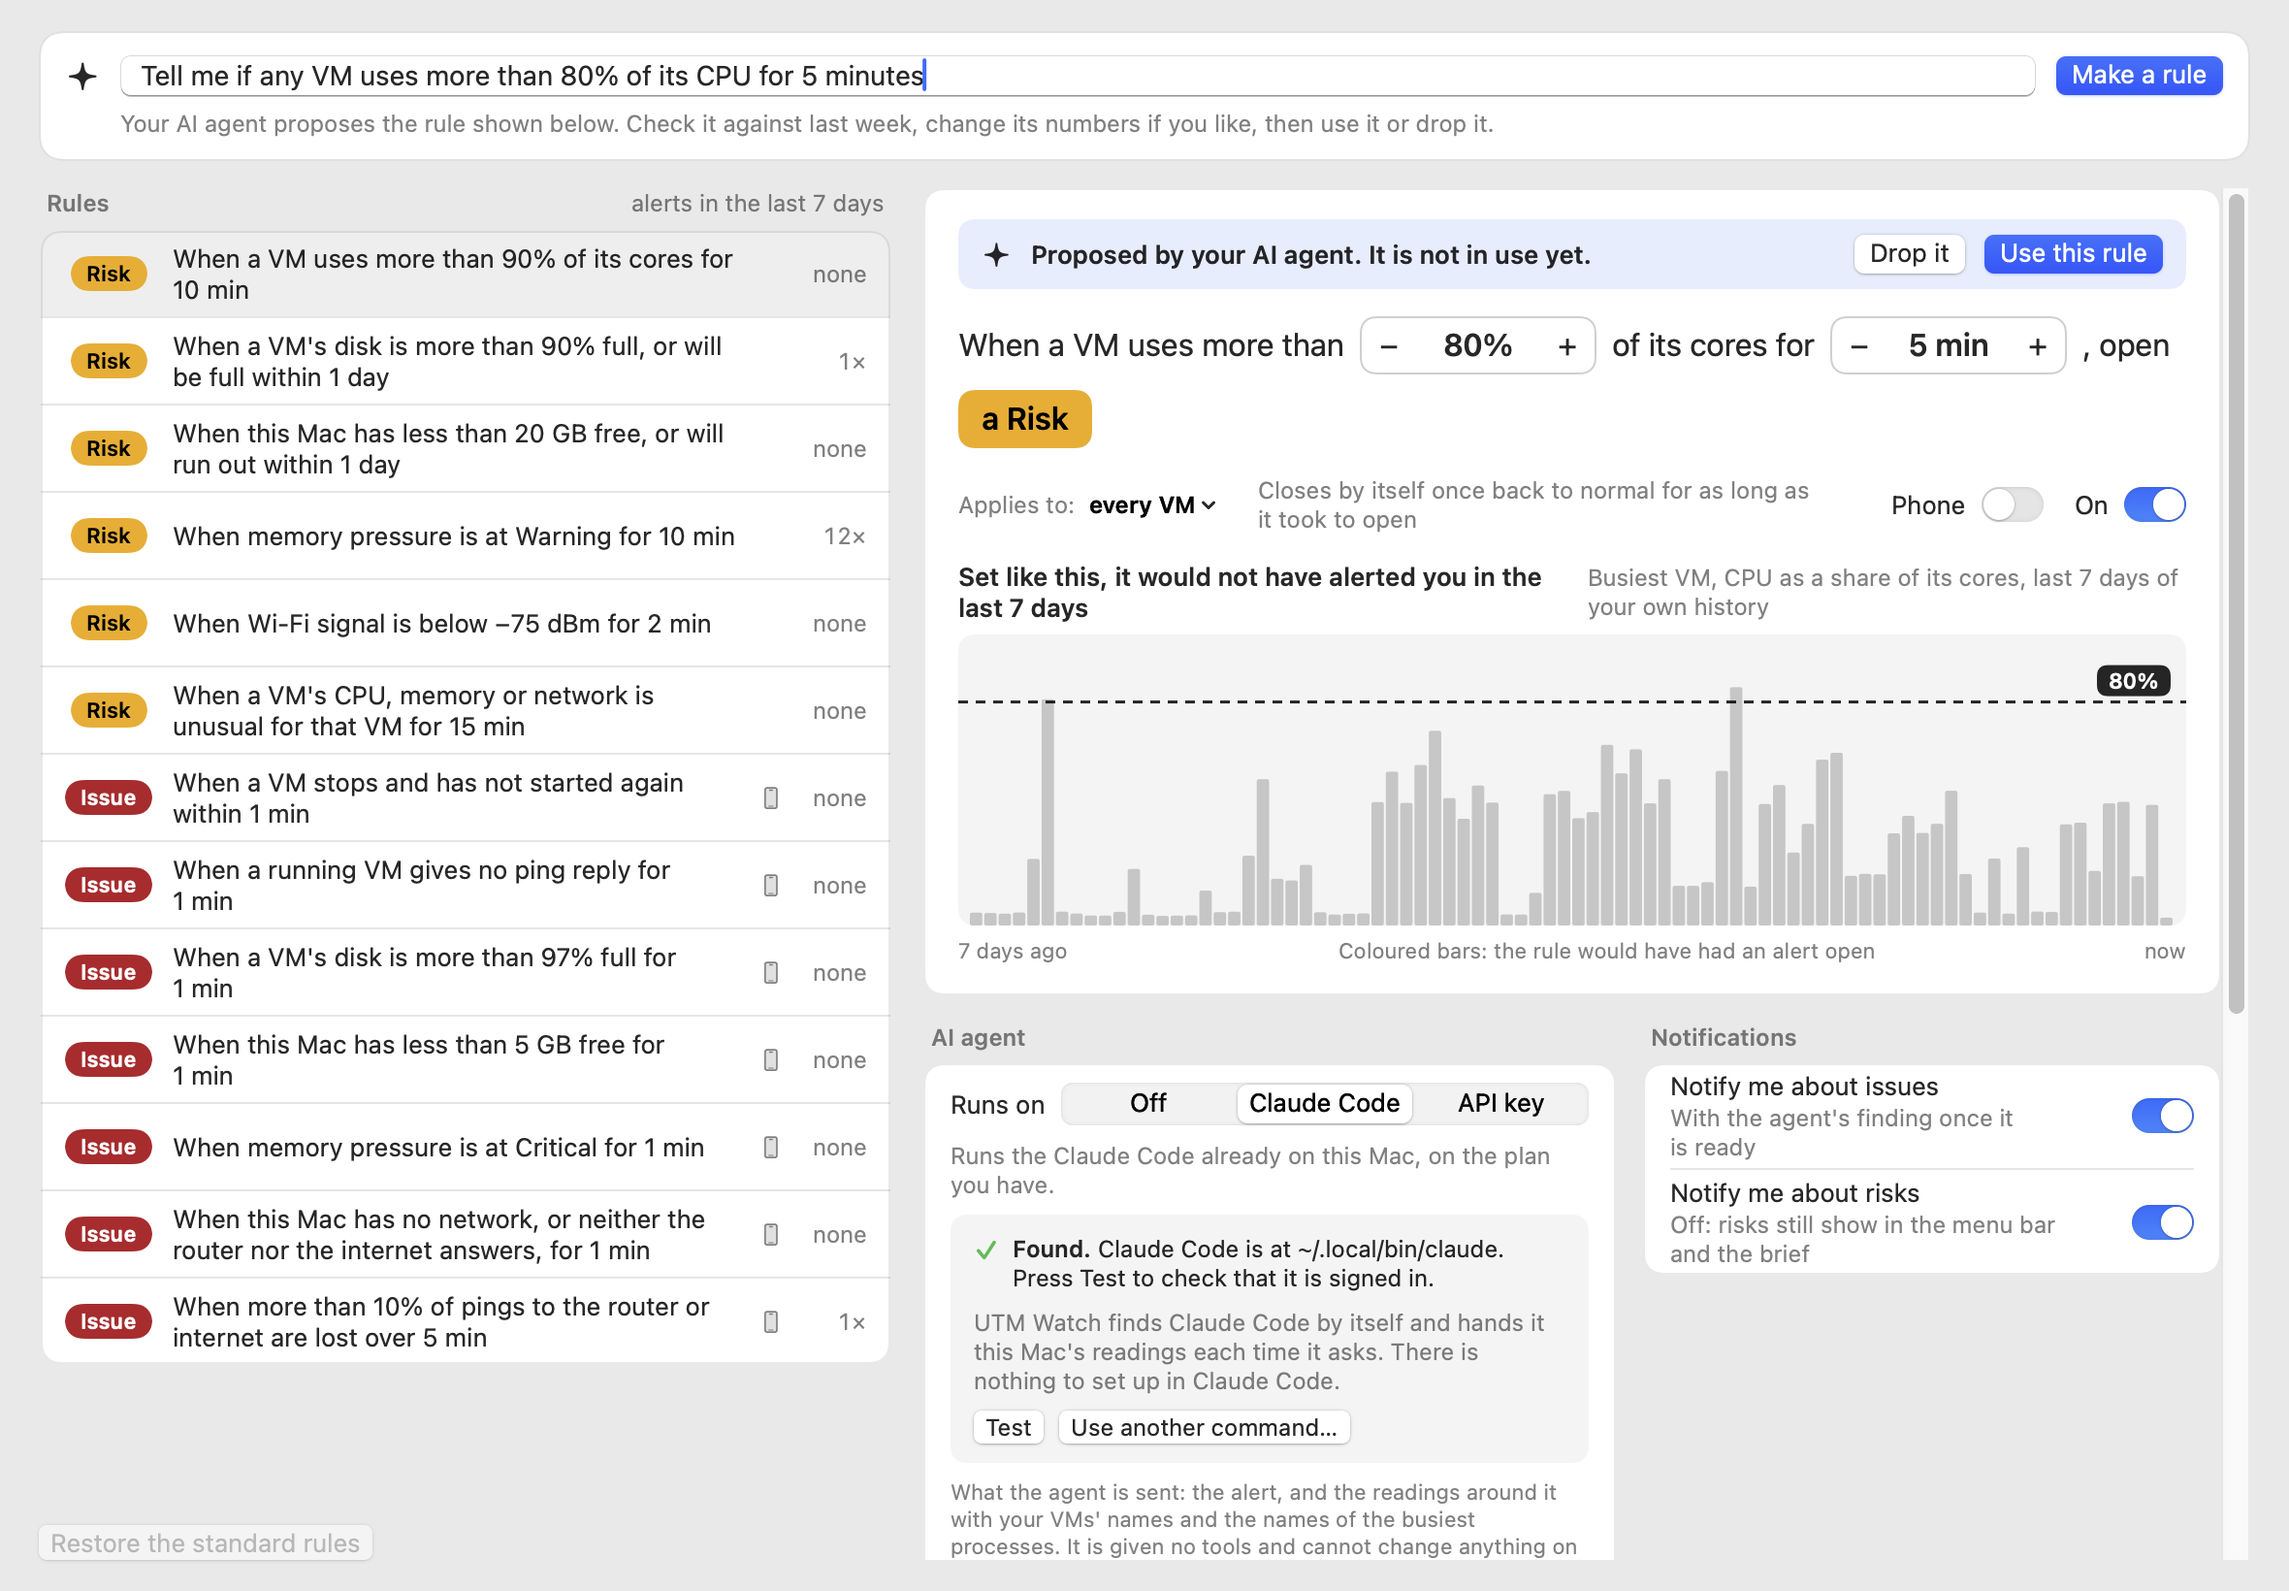
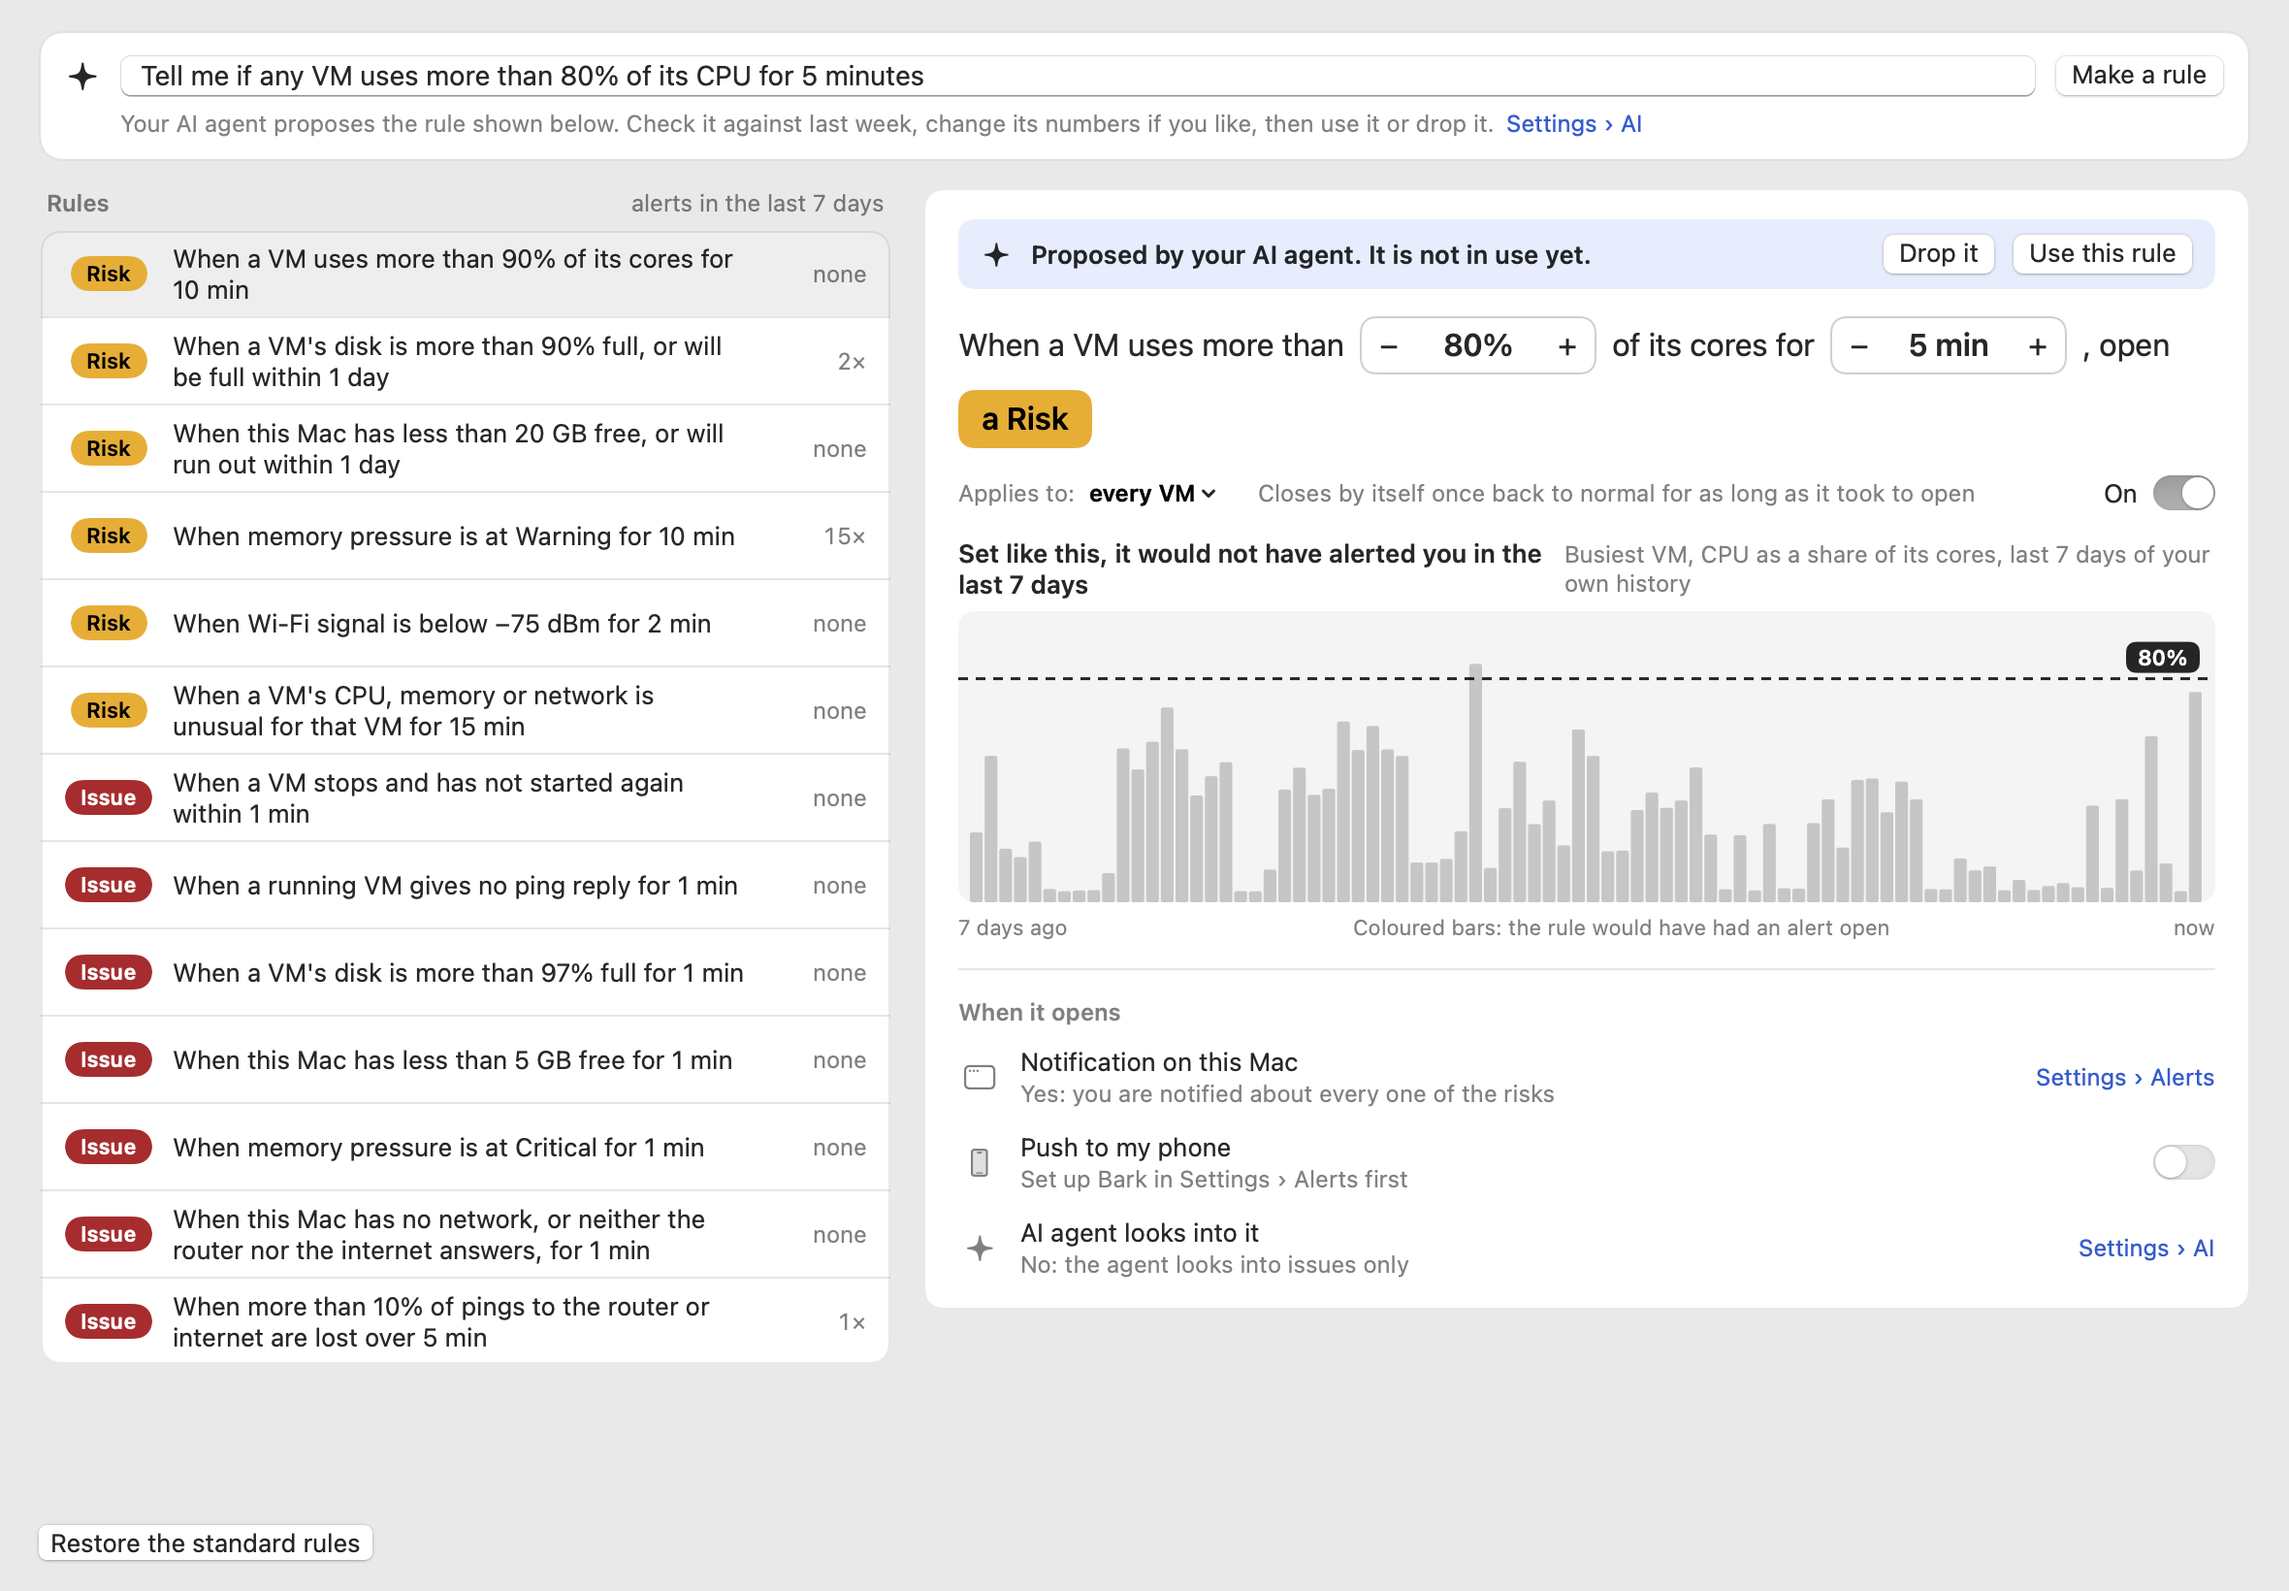
Retake the README's Alert rules pictures for the new layout
The rule-from-a-sentence and tuning-suggestion pictures now show the rules-only
window with "When it opens"; the provider choice gets its own picture of
Settings › AI. The "Settings › AI" link under the sentence box is drawn as a
link again, not in grey.

Debug aids for the pictures: --demo-suggestion, and --ai-provider for
--open-settings.

diff --git a/Sources/UTMWatchApp/AppDelegate.swift b/Sources/UTMWatchApp/AppDelegate.swift
@@ -173,6 +173,7 @@ final class AppDelegate: NSObject, NSApplicationDelegate, NSWindowDelegate {
         if args.contains("--demo-proposal") {
             AlertRulesView.demoProposal = ("Tell me if any VM uses more than 80% of its CPU for 5 minutes", AlertRule(kind: .cpu, level: .risk, value: 80, minutes: 5))
         }
+        if args.contains("--demo-suggestion") { model.alerts.showDemoSuggestion() }
         // For this run only: the choice is not saved, so a trial copy cannot change the real setting.
         if let backend = value("--ai-backend"), ["off", "cli", "key"].contains(backend) { settings.overridesPersist = false; settings.aiBackend = backend }
         if let provider = value("--ai-provider"), AIAgent.providerIDs.contains(provider) {
@@ -296,6 +297,10 @@ final class AppDelegate: NSObject, NSApplicationDelegate, NSWindowDelegate {
         // `--open-settings <tab>` opens the Settings window on that tab, as a click on the menu would.
         if let t = path("--open-settings").flatMap(SettingsTab.init(rawValue:)) {
             if let backend = path("--ai-backend"), ["off", "cli", "key"].contains(backend) { settings.overridesPersist = false; settings.aiBackend = backend }
+            if let provider = path("--ai-provider"), AIAgent.providerIDs.contains(provider) {
+                settings.overridesPersist = false; settings.aiProvider = provider
+                settings.aiModel = AIAgent.defaultModel(provider: provider, custom: settings.aiBaseURL)
+            }
             showSettings(t)
         }
         if let p = path("--snapshot-settings") {

diff --git a/Sources/UTMWatchApp/AlertRulesView.swift b/Sources/UTMWatchApp/AlertRulesView.swift
@@ -72,10 +72,10 @@ struct AlertRulesView: View {
                 Text(note ?? (center.agent.isOn
                      ? "Say what you want to be told about. Your AI agent turns it into one of the rules below, where you can check it against last week before it goes live."
                      : "Writing a rule from a sentence needs the AI agent, which is off. Without it, change the rules by hand in the list."))
-                    .fixedSize(horizontal: false, vertical: true)
+                    .foregroundStyle(.secondary).fixedSize(horizontal: false, vertical: true)
                 settingsLink(.ai)
             }
-            .font(.system(size: 12)).foregroundStyle(.secondary).padding(.leading, 28)
+            .font(.system(size: 12)).padding(.leading, 28)
         }
         .padding(.horizontal, 14).padding(.vertical, 12)
         .background(RoundedRectangle(cornerRadius: 12).fill(Color(nsColor: .textBackgroundColor)))

diff --git a/Sources/UTMWatchApp/AlertCenter.swift b/Sources/UTMWatchApp/AlertCenter.swift
@@ -416,6 +416,13 @@ final class AlertCenter: NSObject, ObservableObject, UNUserNotificationCenterDel
 
     // MARK: Debug aid
 
+    /// `--demo-suggestion`: the suggestion a weekly check could make for the memory rule, for pictures. Not saved.
+    func showDemoSuggestion() {
+        guard var r = rules.first(where: { $0.kind == .memory }) else { return }
+        r.minutes = 15
+        suggestions = [AlertAI.Suggestion(kind: .memory, rule: r, reason: "Most of this rule's alerts last week ended within a few minutes and nothing went wrong afterwards. Waiting 15 minutes would have kept only the long ones.")]
+    }
+
     /// `--demo-alerts`: example alerts in place of the real ones, for pictures of every surface. Nothing is stored or sent.
     func showDemo() {
         demo = true

diff --git a/README.md b/README.md
@@ -76,9 +76,11 @@ When an issue opens, the agent reads the readings around it and adds what most l
 
 Once a week the agent looks for rules that alert often for problems that end by themselves, and suggests a number that would have kept only the alerts worth an interruption. One click applies it.
 
-![The Alert rules window with a suggestion from the AI agent under a rule's 7-day chart, and the AI agent card with its choice of providers](docs/images/ai-suggestion-providers.png)
+![The Alert rules window with a suggestion from the AI agent under a rule's 7-day chart](docs/images/ai-suggestion.png)
 
 **Bring your own model.** The agent runs on one of:
+
+<p align="center"><img src="docs/images/ai-settings.png" width="560" alt="Settings › AI: where the agent runs and the choice of providers, what the agent does, and access for agents you connect yourself"></p>
 
 | Runs on | What you need |
 |---|---|
